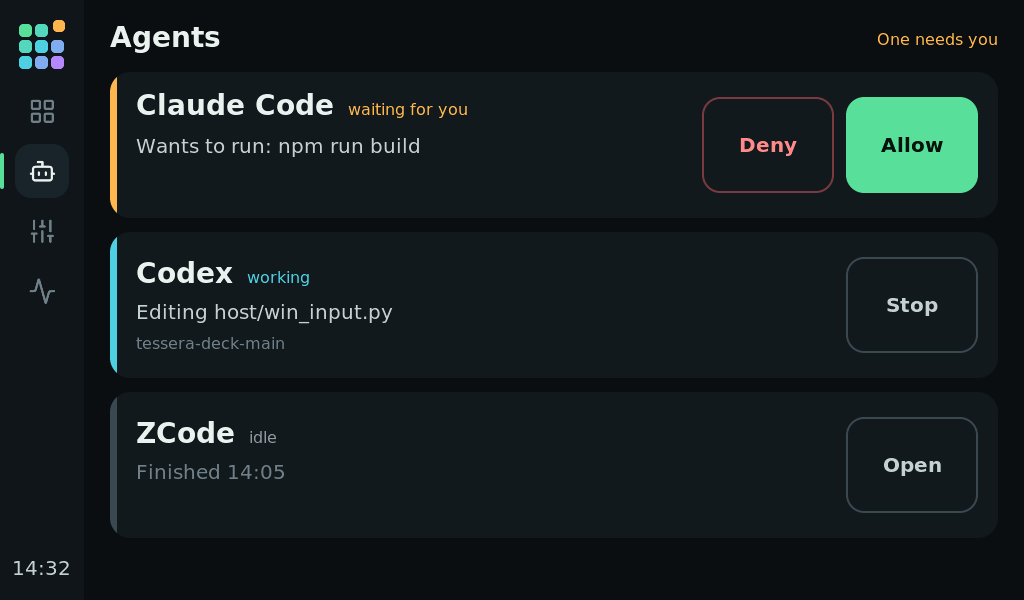
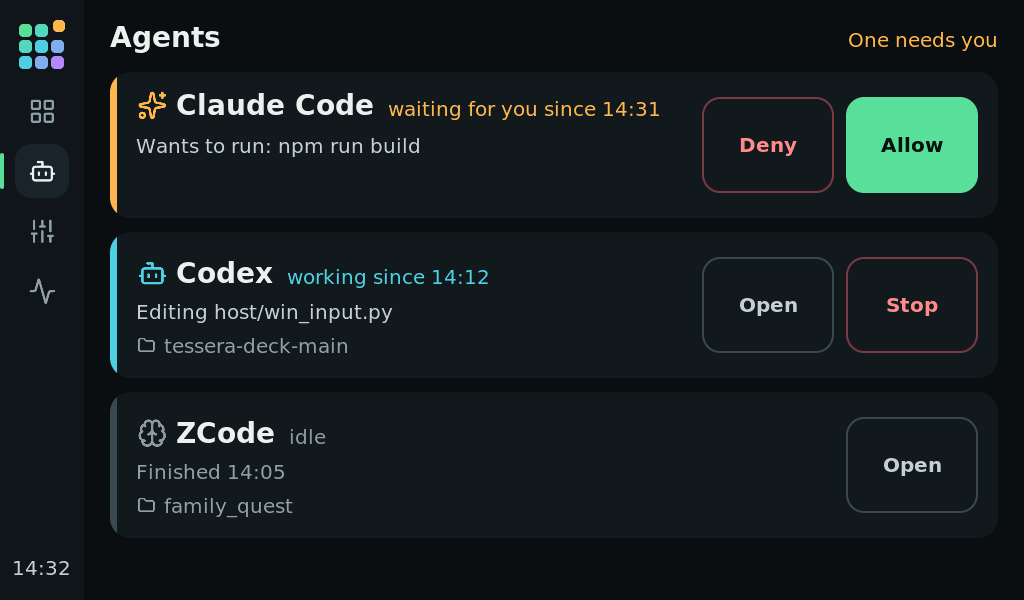
docs: the agents screen's new lane content, buttons per state and the at field

diff --git a/docs/FEATURES.md b/docs/FEATURES.md
@@ -30,7 +30,7 @@ This page lists what Tessera does, including the changes under *Unreleased* in t
 |---|---|
 | Keys | A fixed 6 × 3 grid drawn by LVGL. Values and labels update in place, so a key is not rebuilt under your finger. The grid is rebuilt only when the page changes. |
 | Rail | The buttons down the left edge: the Keys, Agents, Mixer and Status screens, then up to three shortcuts to your own pages. You choose the screens, their order and the shortcuts under **Panel → Rail …**. |
-| Agents screen | Shows what Claude Code, Codex and ZCode are doing. A permission question from Claude Code shows here and is never covered by the clock or a dark screen. Touch *Allow* or *Deny* to answer. |
+| Agents screen | Shows what Claude Code, Codex and ZCode are doing: each tool's icon, since when it has worked or waited, what it does and its project folder. A permission question from Claude Code shows here and is never covered by the clock or a dark screen. Touch *Allow* or *Deny* to answer, *Open* to bring the tool's window forward, or *Stop* while it works. |
 | Mixer screen | Faders for the speakers, up to three programs and the microphone. |
 | Status screen | Live gauges for the PC. |
 | Clock screen | An idle clock made of brand-colored tiles, with optional weather from Open-Meteo for a city you choose and an icon for sun, cloud, fog, drizzle, rain, snow or thunder. The clock is 24-hour or 12-hour with AM/PM; *Clock format* in Panel → Display follows Windows by default. |

diff --git a/README.md b/README.md
@@ -27,7 +27,7 @@ Tessera turns one 7-inch ESP32-P4 touchscreen into an open-source Stream Deck fo
 
 ## Why Tessera
 
-- **It answers your AI agent.** When Claude Code asks for permission, the question shows on the panel. Touch *Allow* or *Deny* to answer. The agents screen also shows what Claude Code, Codex and ZCode are doing.
+- **It answers your AI agent.** When Claude Code asks for permission, the question shows on the panel. Touch *Allow* or *Deny* to answer. The agents screen also shows what Claude Code, Codex and ZCode are doing, since when, and in which project.
 - **Everything stays on your PC.** No account, no cloud, no subscription. The panel talks to a small Windows host over USB.
 - **It is yours to change.** Firmware, host and editor are open source (MIT). There are over 600 automated tests, a documented serial protocol and a plugin API.
 - **One cheap board.** The panel costs about $35 to $42 and you flash it from the editor.

diff --git a/docs/USING.md b/docs/USING.md
@@ -141,6 +141,17 @@ The **Status** screen has a *Show* box for each reading: CPU load, CPU temperatu
 
 **Agents** shows which AI tools work and which wait for you, and ticks *Show on panel* per tool. Working and idle come from the tools' own session files.
 
+On the panel, each tool gets a lane with its icon, its state and the time it started (*working since 14:12*, *waiting for you since 14:31*), what it does now and its project folder. The buttons on the right depend on the state:
+
+| State | Buttons |
+|---|---|
+| Asks a permission question | *Deny* and *Allow* |
+| Waits in its own window | *Open* |
+| Working | *Open* and *Stop* |
+| Idle | *Open* |
+
+*Open* brings the tool's window to the front. When no tool runs, the screen says so.
+
 To see what Claude Code is doing, and to answer its permission questions on the panel:
 
 1. Open **More → Connect Claude Code …** (or *Connect …* on the Agents screen).

diff --git a/docs/PROTOCOL.md b/docs/PROTOCOL.md
@@ -64,7 +64,7 @@ Each list is a JSON object with one array. Text fields are shortened to fit; ids
 
 | Message | Array entries |
 |---|---|
-| `AD_AGENTS` | `id`, `name` (needed), `state` (`idle`, `working` or `waiting`), `text`, `sub`, `q` (`1` when the lane asks a question). |
+| `AD_AGENTS` | `id`, `name` (needed), `state` (`idle`, `working` or `waiting`), `text`, `sub`, `q` (`1` when the lane asks a question), `at` (`HH:MM` the agent started working or waiting; older firmware ignores it). |
 | `AD_MIXER` | `id` (the host's audio target), `name`, `level` (0-100), `muted`, `mic`, `color`. |
 | `AD_STATS` | `name`, `value`, `unit`, `p` (0-100), `color`, `warn`. |
 | `AD_RAIL` | `k` is `keys`, `agents`, `mixer`, `status`, `page` or `act`. A `page` entry also needs `p` (profile) and `g` (page) and may carry `i` (icon). An `act` entry (firmware 0.6.3) carries only `i`. |

diff --git a/CHANGELOG.md b/CHANGELOG.md
@@ -1,5 +1,9 @@
 # Changelog
 
+## Unreleased
+
+- Panel: the agents screen shows each tool's icon, since when it has worked or waited (*working since 14:12*), its project behind a folder icon, *Open* beside *Stop* while it works, and a clearer screen when no agent runs. The host sends the start time as `at` in `AD_AGENTS`.
+
 ## 0.9.0
 
 - Panel: a long gauge value (3.8GHz, 302rpm) steps down a font size and stays inside its ring.
